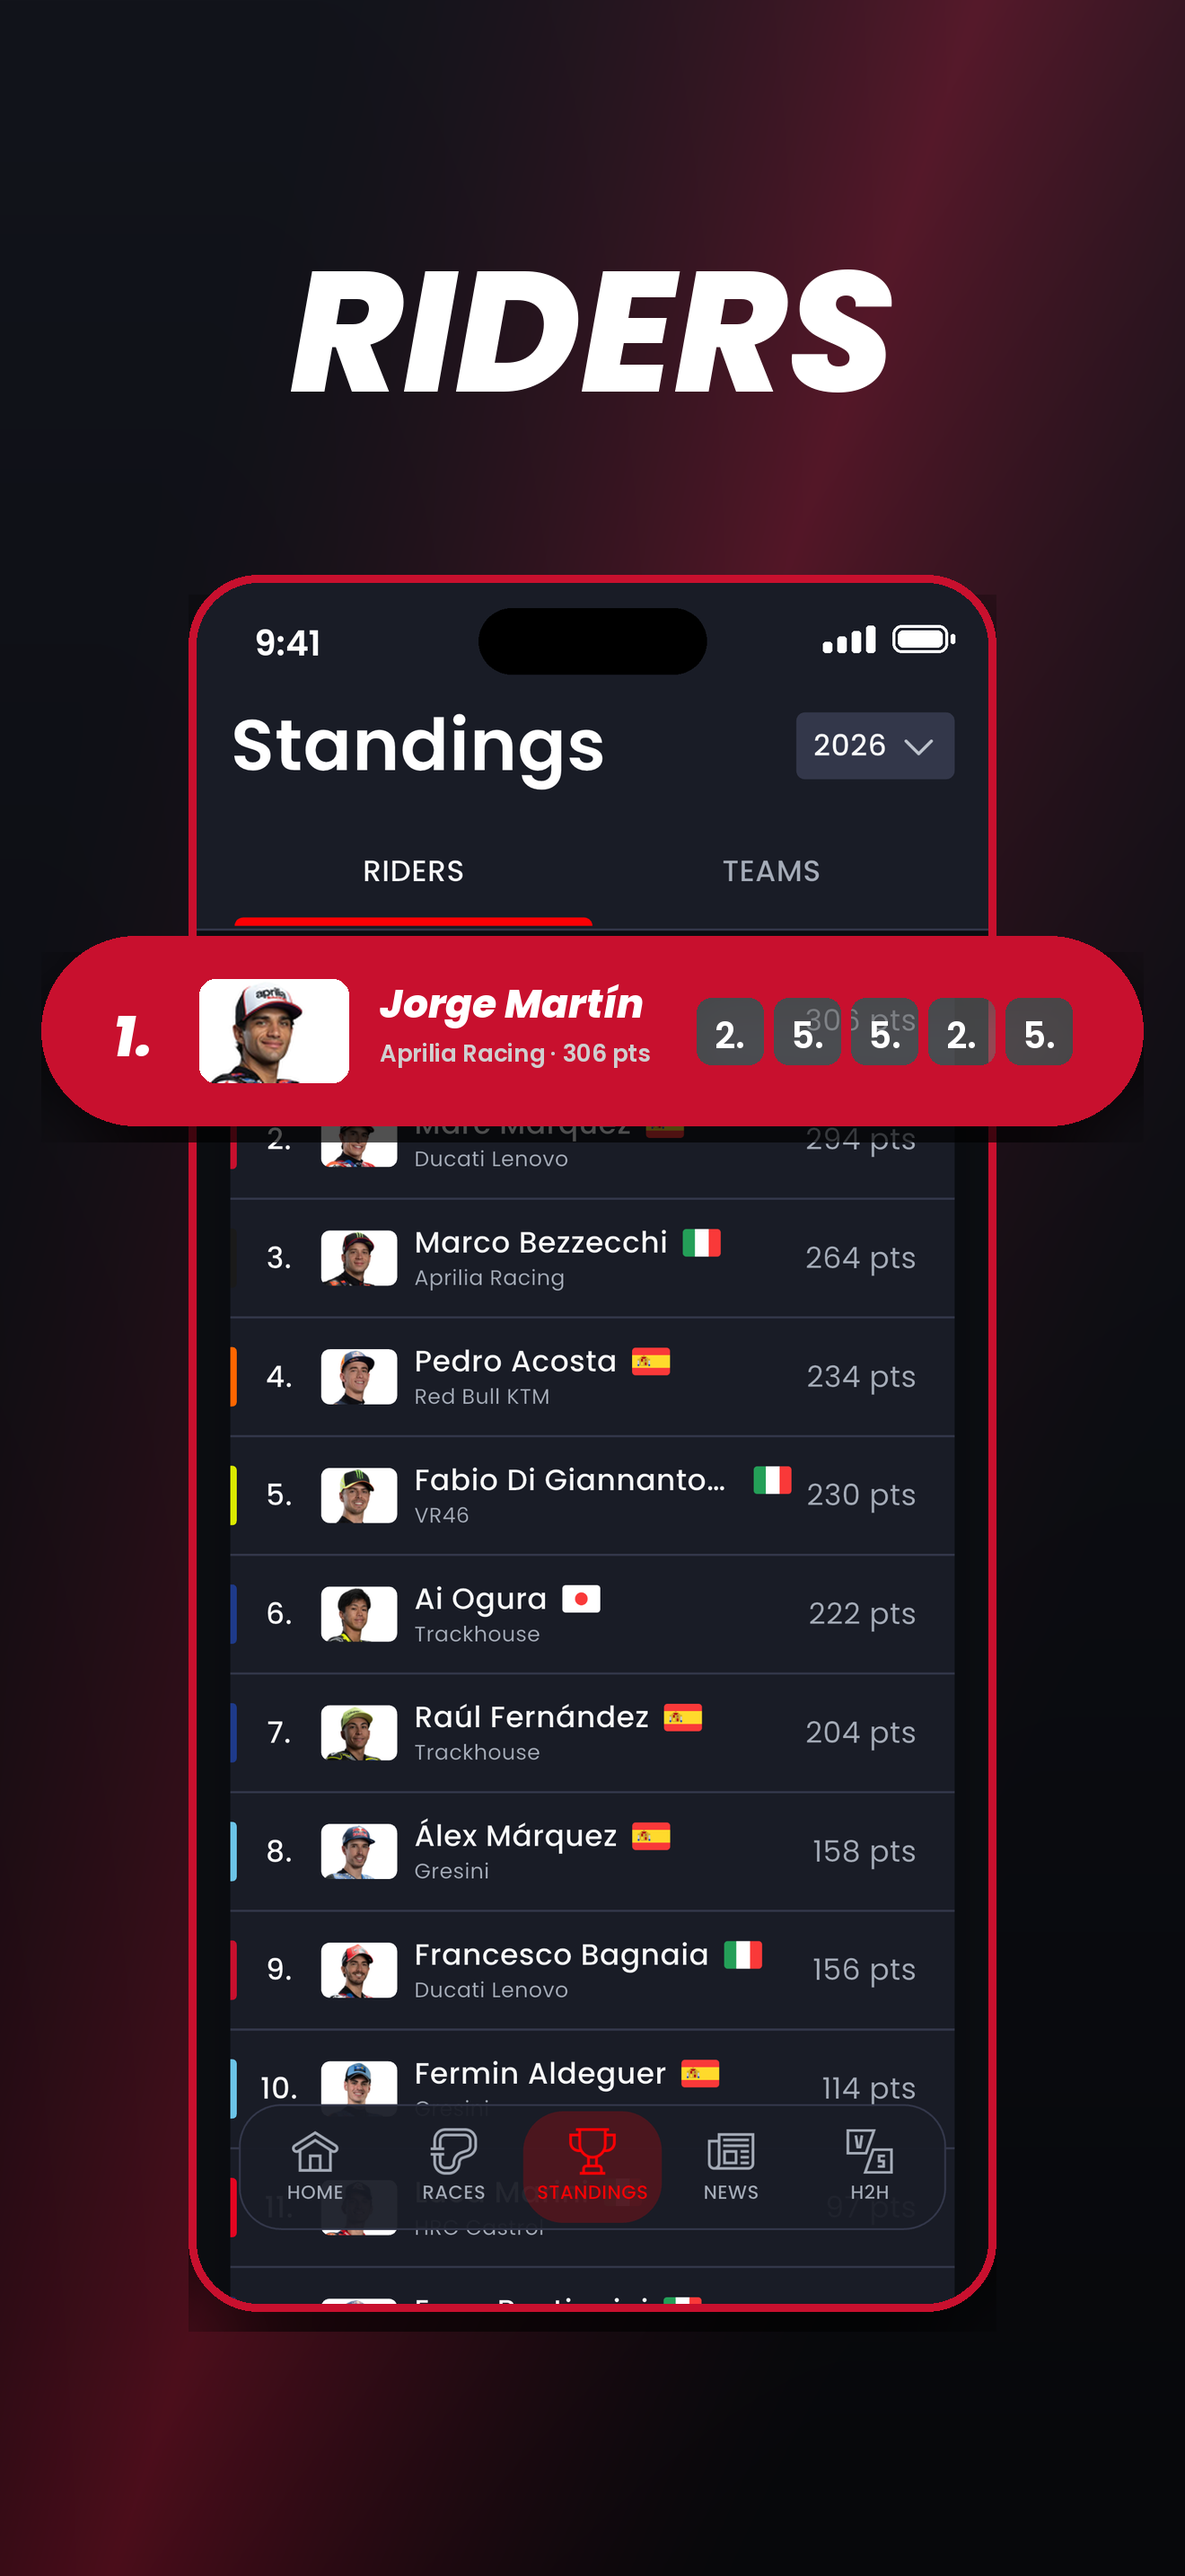
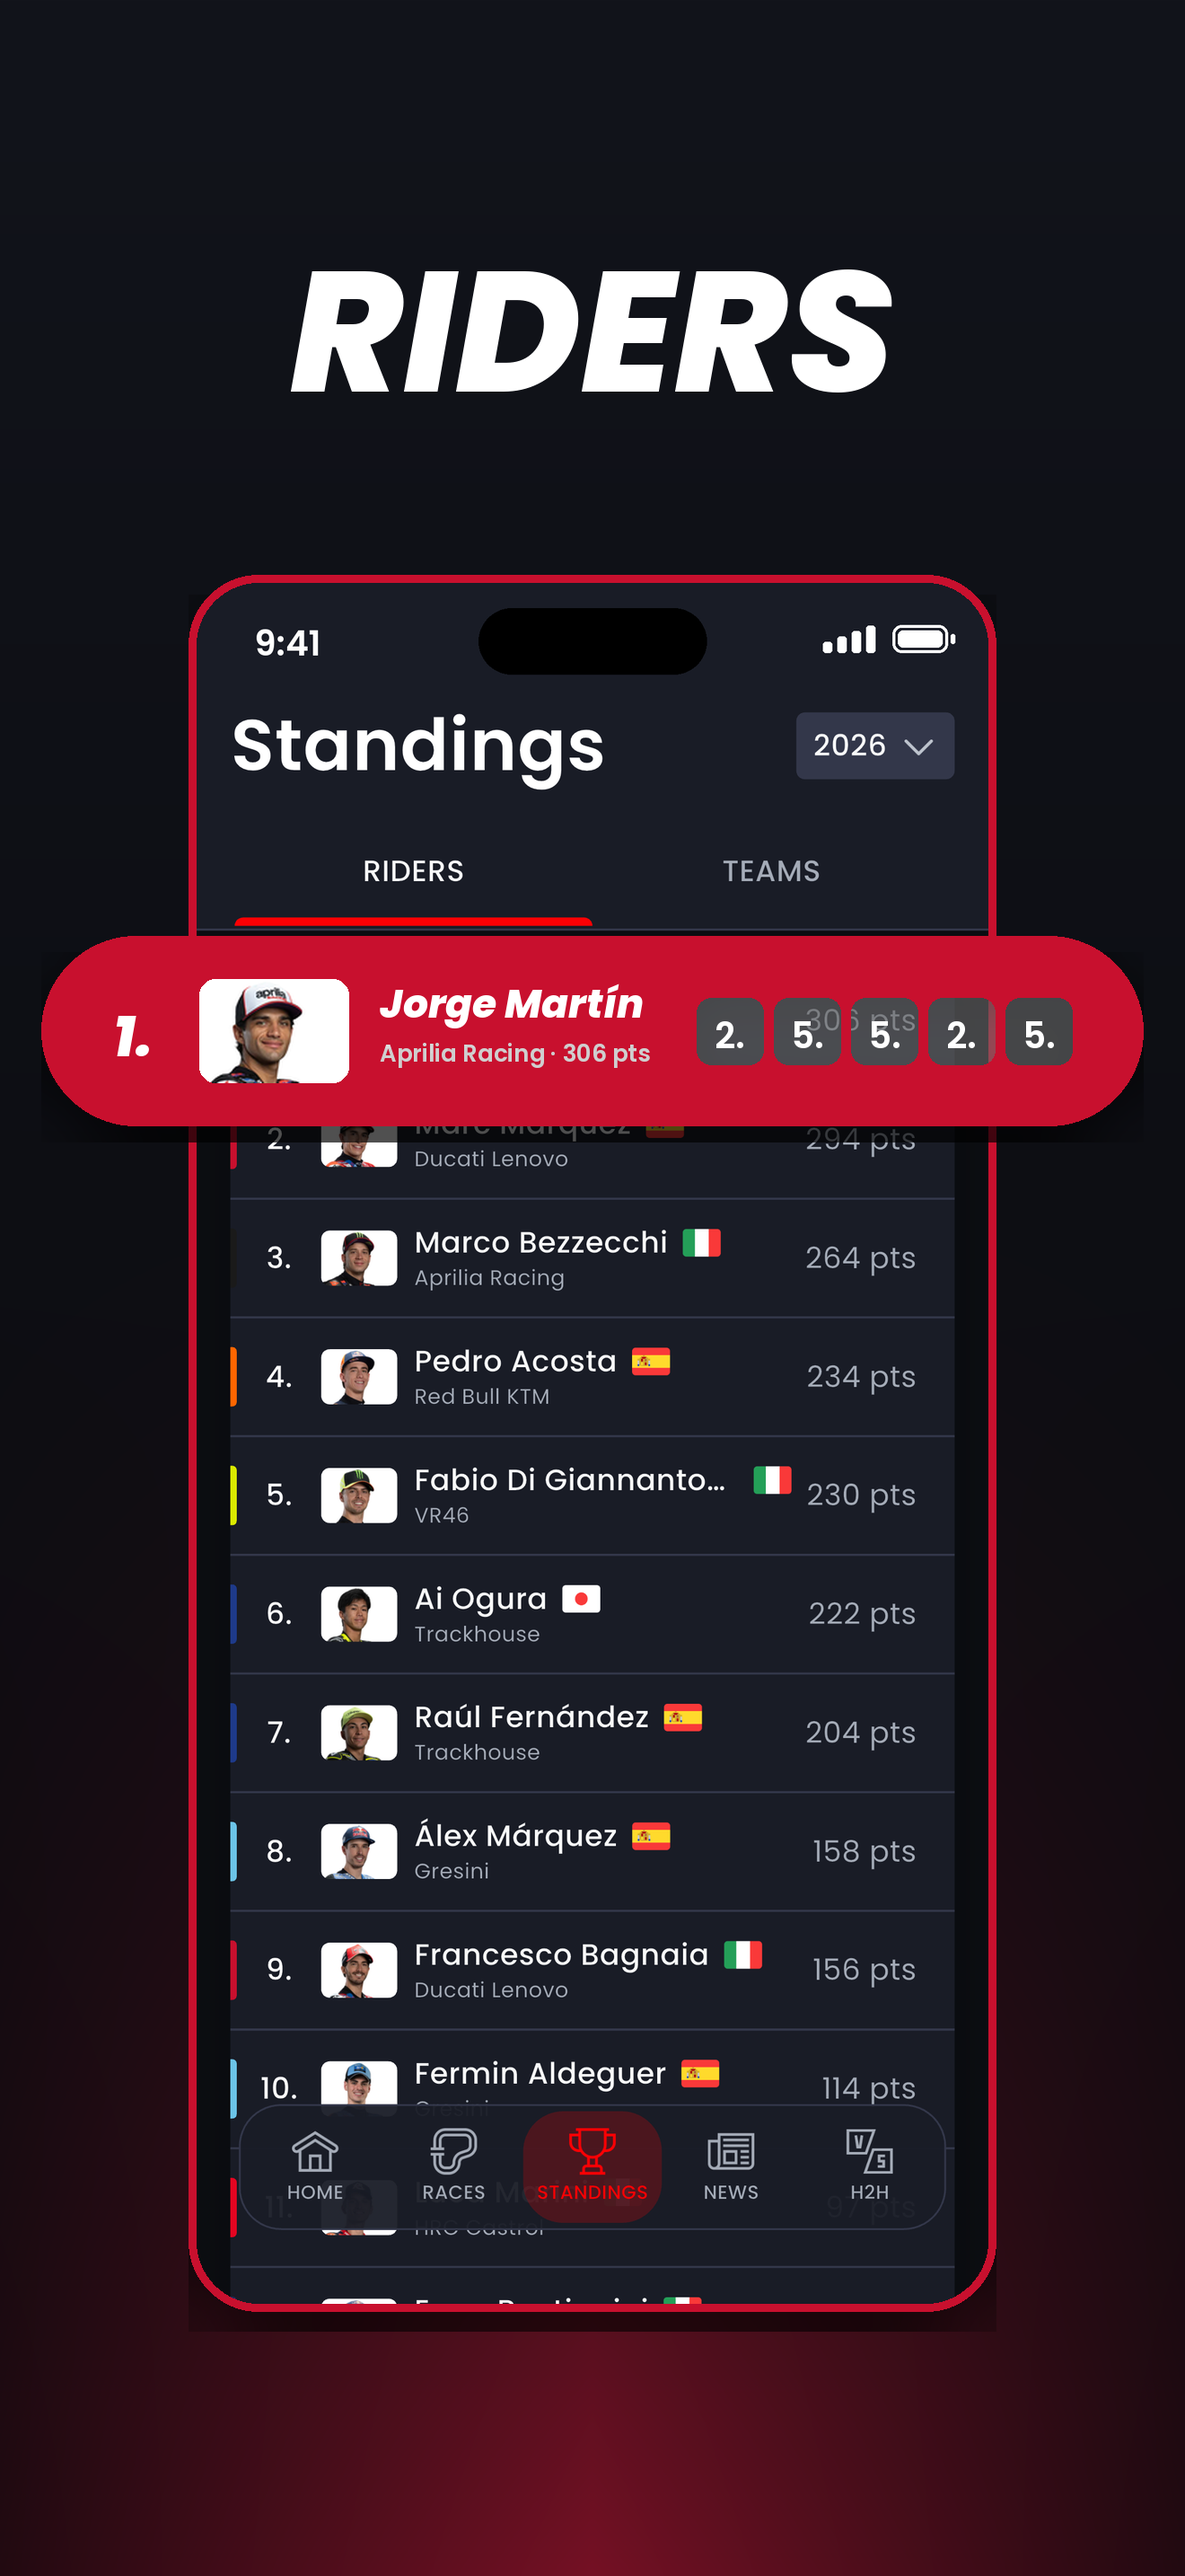
Switch the screenshot background to rise
Red climbing from the bottom edge, so the phone sits in light. Picked
over sweep on the user's call.

Claude-Session: https://claude.ai/code/session_014CLVsmtiqS5tMzJV7xnFiZ

Changed region(s): [[0.4038, 0.0, 1.0, 0.3414], [0.2174, 0.7758, 1.0, 1.0], [0.0621, 0.7137, 0.1864, 1.0]]

diff --git a/store/README.md b/store/README.md
@@ -161,14 +161,14 @@ screen each frame uses, its headline and its pill copy. Output is
 |---|---|---|
 | `flat` | vertical dark gradient | clean, but reads as empty at thumbnail size |
 | `glow` | brand-red halo behind the phone | premium, subtle — almost indistinguishable from `flat` when small |
-| `rise` | red climbing from the bottom edge | warm, the phone sits in light |
-| **`sweep`** | **diagonal red band** | **current default.** Most distinctive small, which is where the first frames do their work |
+| **`rise`** | **red climbing from the bottom edge** | **current default.** Warm, the phone sits in light |
+| `sweep` | diagonal red band | the most distinctive at thumbnail size |
 | `vignette` | centre lifted, corners dropped | subtle depth only |
 
 The first one to three frames appear in App Store search results at a fraction
 of full size, so the background is doing ASO work, not only decoration —
-`sweep` was chosen for being legible as a deliberate design at that scale.
-Switching is one flag; nothing else in the build depends on it.
+`flat` and `glow` become indistinguishable at that scale. Switching is one
+flag; nothing else in the build depends on it.
 
 The builder repaints the status bar on every frame. The raw captures were taken
 on a real phone, so one carried a music player expanded in the Dynamic Island
